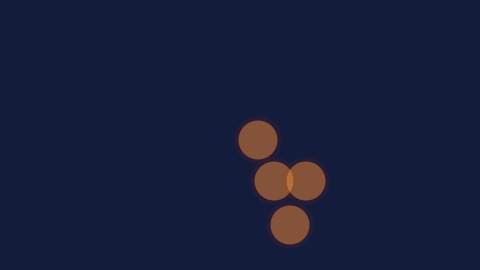
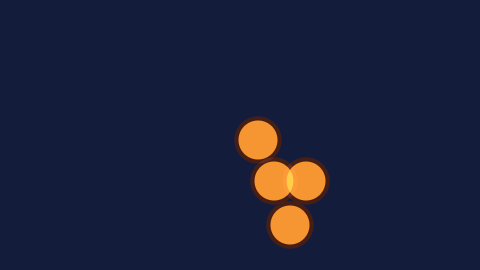
B-771: Echo's Blend draws as light as its Add, and Minimum keeps the whole trail with the darker colour, as After Effects does (D-891)
fill_echoes hands Echo's Blend to the fold as Add. The fold's own
"blend", a true average, stays with CC Wide Time and CC Force Motion
Blur. Minimum takes the darker straight colour of the copies that
cover a pixel, at their largest covering, and leaves out copies that
cover nothing.

Test b771_echo_blend_minimum: 9 of 9 pass, FX-ECHO-008 and 012
within 2e-5, and old projects open and save unchanged. b130_echo
(its Blend row is relabelled) and b648_echo_stacking also pass.

Jake In Motion, three-way:
- Minimum's lone copies: AE 253,253,146; before, the background;
  after, 245,254,151.
- Blend's lone copy: AE 253,253,146; before 123,217,127; after
  245,254,151.

Claude-Session: https://claude.ai/code/session_017v6siGuTE9FEsaYfu4Tihy

Changed region(s): [[0.4688, 0.4148, 0.6875, 0.9185]]

diff --git a/tests/b771_echo_blend_minimum.rs b/tests/b771_echo_blend_minimum.rs
@@ -1,0 +1,82 @@
+//! B-771: Echo's Blend draws as light as its Add, and its Minimum keeps the whole trail with the
+//! darker colour where copies overlap, as After Effects does (D-891). Writes
+//! `verification/B-771_echo_blend_minimum_table.md`.
+
+mod effect_table;
+
+use std::fs;
+
+use effect_table::Table;
+use serde_json::Value as J;
+
+use anime_compositor::{persist, WorkingBuffer};
+
+#[test]
+fn b771_echo_blend_minimum() {
+    let mut t = Table::new(
+        "echo",
+        "# B-771: Echo's Blend and Minimum\n\nD-891, accepted on 2026-10-26. Blend now draws as \
+         Add, the copies summed and held at 1; Minimum takes the darker straight colour of the \
+         copies that cover a pixel, at the largest covering. Every expected pixel is \
+         `Fixtures/echo/expected_echo.json`, written by `tools/echo_reference.py`; the answer is \
+         the largest difference against the catalogue's tolerance of 2e-5.\n",
+    );
+
+    t.heading("FX-ECHO-008 and 012 (document 25), the two cases D-891 changed");
+    t.fixtures_numbered("expected_echo.json", 8..=8);
+    t.fixtures_numbered("expected_echo.json", 12..=12);
+
+    t.heading("What the two operators draw, row 2");
+    let px = |b: &WorkingBuffer, x: usize| -> [f32; 4] {
+        let i = (2 * b.width() + x) * 4;
+        let d = b.data();
+        [d[i], d[i + 1], d[i + 2], d[i + 3]]
+    };
+    let plain = t.load("fx_echo_002.json");
+    let blend = t.load("fx_echo_012.json");
+    let drawing = t.render(&plain.document, 4, 64);
+    let blended = t.render(&blend.document, 4, 64);
+    let lighter = (0..blended.width()).all(|x| {
+        let (b, d) = (px(&blended, x), px(&drawing, x));
+        (0..4).all(|c| b[c] >= d[c] - 2e-5)
+    });
+    t.row(
+        "Blend, frame 4: every pixel at least as light as the present drawing alone, channel by \
+         channel, as a sum is (an average of four was darker)",
+        &format!("column 9 {:?} against the drawing's {:?}", px(&blended, 9), px(&drawing, 9)),
+        lighter,
+    );
+    let minimum = t.load("fx_echo_008.json");
+    let min3 = t.render(&minimum.document, 3, 64);
+    let covered: Vec<usize> = (0..min3.width()).filter(|&x| px(&min3, x)[3] > 0.0).collect();
+    t.row(
+        "Minimum, frame 3: drawings 4 and 3 both drawn, columns 4 to 9 (before D-891 only the \
+         two columns where they overlapped, 6 and 7)",
+        &format!("covered columns {covered:?}"),
+        covered == (4..=9).collect::<Vec<_>>(),
+    );
+    let c7 = px(&min3, 7);
+    t.row(
+        "Minimum, frame 3, column 7, where both balls are whole: opaque, the darker green of \
+         drawing 3 and the darker blue of drawing 4",
+        &format!("{c7:?}"),
+        (c7[3] - 1.0).abs() <= 2e-5 && (c7[1] - 0.3515326).abs() <= 2e-5 && (c7[2] - 0.03189603).abs() <= 2e-5,
+    );
+
+    t.heading("A project saved before D-891");
+    // fx_echo_008.json and 012.json were saved before D-891 and are not changed by it.
+    for file in ["fx_echo_008.json", "fx_echo_012.json"] {
+        let path = t.root.join(file);
+        let original: J = serde_json::from_str(&fs::read_to_string(&path).unwrap()).unwrap();
+        let loaded = persist::load(&path).expect("opens");
+        let warnings: Vec<&str> = loaded.warnings.iter().map(|d| d.id.as_str()).collect();
+        let same = effect_table::same_json(&effect_table::saved(&loaded), &original);
+        t.row(
+            &format!("{file} opens with no warning and saves holding what it held, operator word included"),
+            &format!("warnings {warnings:?}, saved {}", if same { "the same" } else { "differs" }),
+            warnings.is_empty() && same,
+        );
+    }
+
+    t.finish("B-771_echo_blend_minimum_table.md");
+}

diff --git a/src/layer_fx.rs b/src/layer_fx.rs
@@ -12750,17 +12750,26 @@ impl EchoFold {
     pub(crate) fn add(&mut self, p: Option<&WorkingBuffer>, weight: f64) {
         let first = self.count == 0;
         self.count += 1;
-        // Nothing added, laid over or under changes nothing; only Maximum and Minimum see it.
-        if p.is_none() && !matches!(self.operator.as_str(), "maximum" | "minimum") {
+        // Nothing added, laid over or under changes nothing; only Maximum sees it.
+        if p.is_none() && self.operator != "maximum" {
             return;
         }
         let fold: fn(&mut [f32], [f32; 4], bool) = match self.operator.as_str() {
             "maximum" => {
                 |r, q, first| (0..4).for_each(|c| r[c] = if first { q[c] } else { r[c].max(q[c]) })
             }
-            "minimum" => {
-                |r, q, first| (0..4).for_each(|c| r[c] = if first { q[c] } else { r[c].min(q[c]) })
-            }
+            // D-891: the darker straight colour of the copies that cover, held straight until
+            // `finish`, at the largest covering; a copy that covers nothing is left out.
+            "minimum" => |r, q, _| {
+                if q[3] <= 0.0 {
+                    return;
+                }
+                (0..3).for_each(|c| {
+                    let s = q[c] / q[3];
+                    r[c] = if r[3] > 0.0 { r[c].min(s) } else { s };
+                });
+                r[3] = r[3].max(q[3]);
+            },
             "screen" => |r, q, _| (0..4).for_each(|c| r[c] *= 1.0 - q[c].clamp(0.0, 1.0)),
             // D-768: In Front keeps what is there so far (the present first) over each older copy;
             // In Back lays each older copy over it, the furthest on top.
@@ -12795,6 +12804,12 @@ impl EchoFold {
         };
         if let Some(last) = last {
             self.out.data_mut().par_iter_mut().for_each(|v| last(v, n));
+        }
+        if self.operator == "minimum" {
+            self.out.data_mut().par_chunks_exact_mut(4).for_each(|r| {
+                let a = r[3];
+                r[..3].iter_mut().for_each(|v| *v *= a);
+            });
         }
         self.out
     }

diff --git a/tests/b130_echo.rs b/tests/b130_echo.rs
@@ -386,7 +386,7 @@ fn b130_echo() {
         ("trail_in_front", effect(-2, 6, 0.7, "composite_in_front"), 90, "the same, Composite In Front: the present ball whole on top (D-768)"),
         ("smear", effect(-1, 11, 0.8, "add"), 106, "11 echoes 1 frame back, decay 0.8, Add: a smear back to drawing 6"),
         ("ahead_screen", effect(2, 3, 0.5, "screen"), 282, "Echo Time +2, 3 echoes, decay 0.5, Screen: where the ball is going, to drawing 23"),
-        ("blend", effect(-1, 3, 1.0, "blend"), 234, "3 echoes 1 frame back, Blend: four drawings averaged"),
+        ("blend", effect(-1, 3, 1.0, "blend"), 234, "3 echoes 1 frame back, Blend: as Add (D-891)"),
     ] {
         let to = if name == "ahead_screen" { 426 } else { 330 };
         let (_, bytes, said) = draw(&picture(effects), &dir, 16, full);

diff --git a/src/compose.rs b/src/compose.rs
@@ -5703,7 +5703,10 @@ fn fill_echoes(
         };
         let drawing = bare(holder, true);
         let mut inside = FrameLog::new(usize::MAX);
-        let mut fold = crate::layer_fx::EchoFold::new(operator, size);
+        // D-891: Echo's Blend draws as its Add, as After Effects'; the fold's own "blend", a true
+        // average, stays CC Wide Time's and CC Force Motion Blur's.
+        let fold_as = if operator == "blend" { "add" } else { operator.as_str() };
+        let mut fold = crate::layer_fx::EchoFold::new(fold_as, size);
         for k in 0..=echoes.floor() as i32 {
             let at = frame + k * echo_time.floor() as i32;
             let p = resolve_layer(

diff --git a/verification/B-130_echo_table.md b/verification/B-130_echo_table.md
@@ -24,7 +24,7 @@ D-195, accepted by the owner on 2026-09-28 ("take everything"). Every expected p
 | FX-ECHO-006: what opening it warns of, and what frame 4 warns of | [] and [] | yes |
 | FX-ECHO-007 frame 4: Three echoes, decay 0.7, Maximum. | largest difference 9.7e-8 | yes |
 | FX-ECHO-007: what opening it warns of, and what frame 4 warns of | [] and [] | yes |
-| FX-ECHO-008 frame 3: One echo, Minimum: only where drawings 4 and 3 overlap is anything left. | largest difference 9.8e-8 | yes |
+| FX-ECHO-008 frame 3: One echo, Minimum (D-891): both drawings' covering, the smaller colour where they overlap. | largest difference 9.8e-8 | yes |
 | FX-ECHO-008: what opening it warns of, and what frame 4 warns of | [] and [] | yes |
 | FX-ECHO-009 frame 4: Three echoes, decay 0.7, Screen. | largest difference 9.7e-8 | yes |
 | FX-ECHO-009: what opening it warns of, and what frame 4 warns of | [] and [] | yes |
@@ -32,7 +32,7 @@ D-195, accepted by the owner on 2026-09-28 ("take everything"). Every expected p
 | FX-ECHO-010: what opening it warns of, and what frame 4 warns of | [] and [] | yes |
 | FX-ECHO-011 frame 4: Three echoes, decay 0.7, Composite In Front: the present ball in front. | largest difference 1.2e-7 | yes |
 | FX-ECHO-011: what opening it warns of, and what frame 4 warns of | [] and [] | yes |
-| FX-ECHO-012 frame 4: Three echoes, Blend: the four drawings averaged. | largest difference 4.6e-8 | yes |
+| FX-ECHO-012 frame 4: Three echoes, Blend (D-891): as Add, the four drawings summed and held at 1. | largest difference 1.7e-7 | yes |
 | FX-ECHO-012: what opening it warns of, and what frame 4 warns of | [] and [] | yes |
 | FX-ECHO-013 frame 3: The layer's in point at frame 2, three echoes: at frame 3 its drawings 2 and 1; frames 1 and 0 are before it, empty. | largest difference 1.4e-7 | yes |
 | FX-ECHO-013: what opening it warns of, and what frame 4 warns of | [] and [] | yes |
@@ -153,7 +153,7 @@ D-195, accepted by the owner on 2026-09-28 ("take everything"). Every expected p
 | trail_in_front.png, the same, Composite In Front: the present ball whole on top (D-768), draws cleanly in columns 90 to 330 | [], columns 90 to 329, 0 pixels of the present ball differ from before.png | yes |
 | smear.png, 11 echoes 1 frame back, decay 0.8, Add: a smear back to drawing 6, draws cleanly in columns 106 to 330 | [], columns 106 to 329 | yes |
 | ahead_screen.png, Echo Time +2, 3 echoes, decay 0.5, Screen: where the ball is going, to drawing 23, draws cleanly in columns 282 to 426 | [], columns 282 to 425 | yes |
-| blend.png, 3 echoes 1 frame back, Blend: four drawings averaged, draws cleanly in columns 234 to 330 | [], columns 234 to 329 | yes |
+| blend.png, 3 echoes 1 frame back, Blend: as Add (D-891), draws cleanly in columns 234 to 330 | [], columns 234 to 329 | yes |
 | trail_add at Draft draws cleanly, a quarter the size: the trail in columns 22 to 83 (the last row, half covered by the solid since 270 is no whole number of quarters, left out) | [], 120 wide, columns 22 to 82 | yes |
 
 ## The frame does not depend on how it is cut up

diff --git a/verification/B-771_playtest.md b/verification/B-771_playtest.md
@@ -1,0 +1,48 @@
+# B-771 playtest: Echo's Blend and Minimum as After Effects draws them (D-891)
+
+## What changed for you
+
+Echo's **Blend** operator now draws as light as its **Add**: the copies are summed and held at
+white. Before, Blend averaged the copies, so a lone copy came out about half as bright.
+
+Echo's **Minimum** operator now draws the whole trail. Where copies overlap, it keeps the darker
+colour. Before, a pixel had to be covered by every copy, so only the overlaps were left.
+
+The other operators (Add, Maximum, Screen, Composite In Back, Composite In Front) are unchanged.
+CC Wide Time and CC Force Motion Blur also still average, as before.
+
+**Saved projects that change look:** any project with an Echo whose operator is Blend (about
+twice as light where the copies do not overlap) or Minimum (the whole trail is drawn, darker where
+copies overlap). Files open with no warning and save exactly as they were.
+
+## What to look at
+
+`verification/B-771 pictures/jake_minimum.png` and `jake_blend.png` each show three panels. The
+left panel is After Effects (Jake In Motion's Echo tutorial). The middle panel is ours before
+this change, and the right panel is ours after it. The table under each picture gives the middle
+colour of each region.
+
+- **Minimum:** After Effects shows both copies of the logo, yellow and dark green, and the green
+  wins where green and yellow overlap. Before, ours showed only scraps where the copies overlap.
+  After, ours shows both copies: yellow 245,254,151 against AE's 253,253,146, and green 8,144,79
+  against AE's 13,143,82. The yellow and green are the stand-in logo's own colours.
+- **Blend:** After Effects' lone copies are full yellow, 253,253,146. Before, ours was a faded
+  123,217,127. After, ours is 245,254,151. Overlaps go to white (yellow on yellow: AE
+  255,254,255, ours 255,255,255) and bright green on green (AE 26,253,166, ours 16,254,158).
+
+`verification/B-771_echo_blend_minimum_table.md` has the fixtures FX-ECHO-008 and 012, all
+within 2e-5. It also shows two projects saved before D-891 opening with no warnings and saving
+unchanged.
+
+The "before" panels were drawn by the wave 7 build. Echo's Blend and Minimum did not change
+between that build and this change.
+
+## Try it
+
+1. Put a moving drawing in a comp and add Echo with Echo Time a frame or two back, Number of
+   Echoes 3.
+2. Set Echo Operator to Add, then to Blend. The two should look the same.
+3. Set it to Minimum. The whole trail should show. Where two copies overlap, you should see the
+   darker of the two colours.
+4. Open an older project that used Blend or Minimum. It opens without any message and now draws
+   as above.

diff --git a/verification/B-771_echo_blend_minimum_table.md b/verification/B-771_echo_blend_minimum_table.md
@@ -1,0 +1,31 @@
+# B-771: Echo's Blend and Minimum
+
+D-891, accepted on 2026-10-26. Blend now draws as Add, the copies summed and held at 1; Minimum takes the darker straight colour of the copies that cover a pixel, at the largest covering. Every expected pixel is `Fixtures/echo/expected_echo.json`, written by `tools/echo_reference.py`; the answer is the largest difference against the catalogue's tolerance of 2e-5.
+
+## FX-ECHO-008 and 012 (document 25), the two cases D-891 changed
+
+| Check | The build's answer | Matches |
+| --- | --- | --- |
+| FX-ECHO-008 frame 3: One echo, Minimum (D-891): both drawings' covering, the smaller colour where they overlap. | largest difference 9.8e-8 | yes |
+| FX-ECHO-008: what opening it warns of, and what frame 4 warns of | [] and [] | yes |
+| FX-ECHO-012 frame 4: Three echoes, Blend (D-891): as Add, the four drawings summed and held at 1. | largest difference 1.7e-7 | yes |
+| FX-ECHO-012: what opening it warns of, and what frame 4 warns of | [] and [] | yes |
+
+## What the two operators draw, row 2
+
+| Check | The build's answer | Matches |
+| --- | --- | --- |
+| Blend, frame 4: every pixel at least as light as the present drawing alone, channel by channel, as a sum is (an average of four was darker) | column 9 [1.0, 1.0, 0.0349313, 1.0] against the drawing's [0.79129803, 0.8713672, 0.00303527, 1.0] | yes |
+| Minimum, frame 3: drawings 4 and 3 both drawn, columns 4 to 9 (before D-891 only the two columns where they overlapped, 6 and 7) | covered columns [4, 5, 6, 7, 8, 9] | yes |
+| Minimum, frame 3, column 7, where both balls are whole: opaque, the darker green of drawing 3 and the darker blue of drawing 4 | [0.79129803, 0.3515327, 0.03189603, 1.0] | yes |
+
+## A project saved before D-891
+
+| Check | The build's answer | Matches |
+| --- | --- | --- |
+| fx_echo_008.json opens with no warning and saves holding what it held, operator word included | warnings [], saved the same | yes |
+| fx_echo_012.json opens with no warning and saves holding what it held, operator word included | warnings [], saved the same | yes |
+
+## Result
+
+9 of 9 checks pass.
